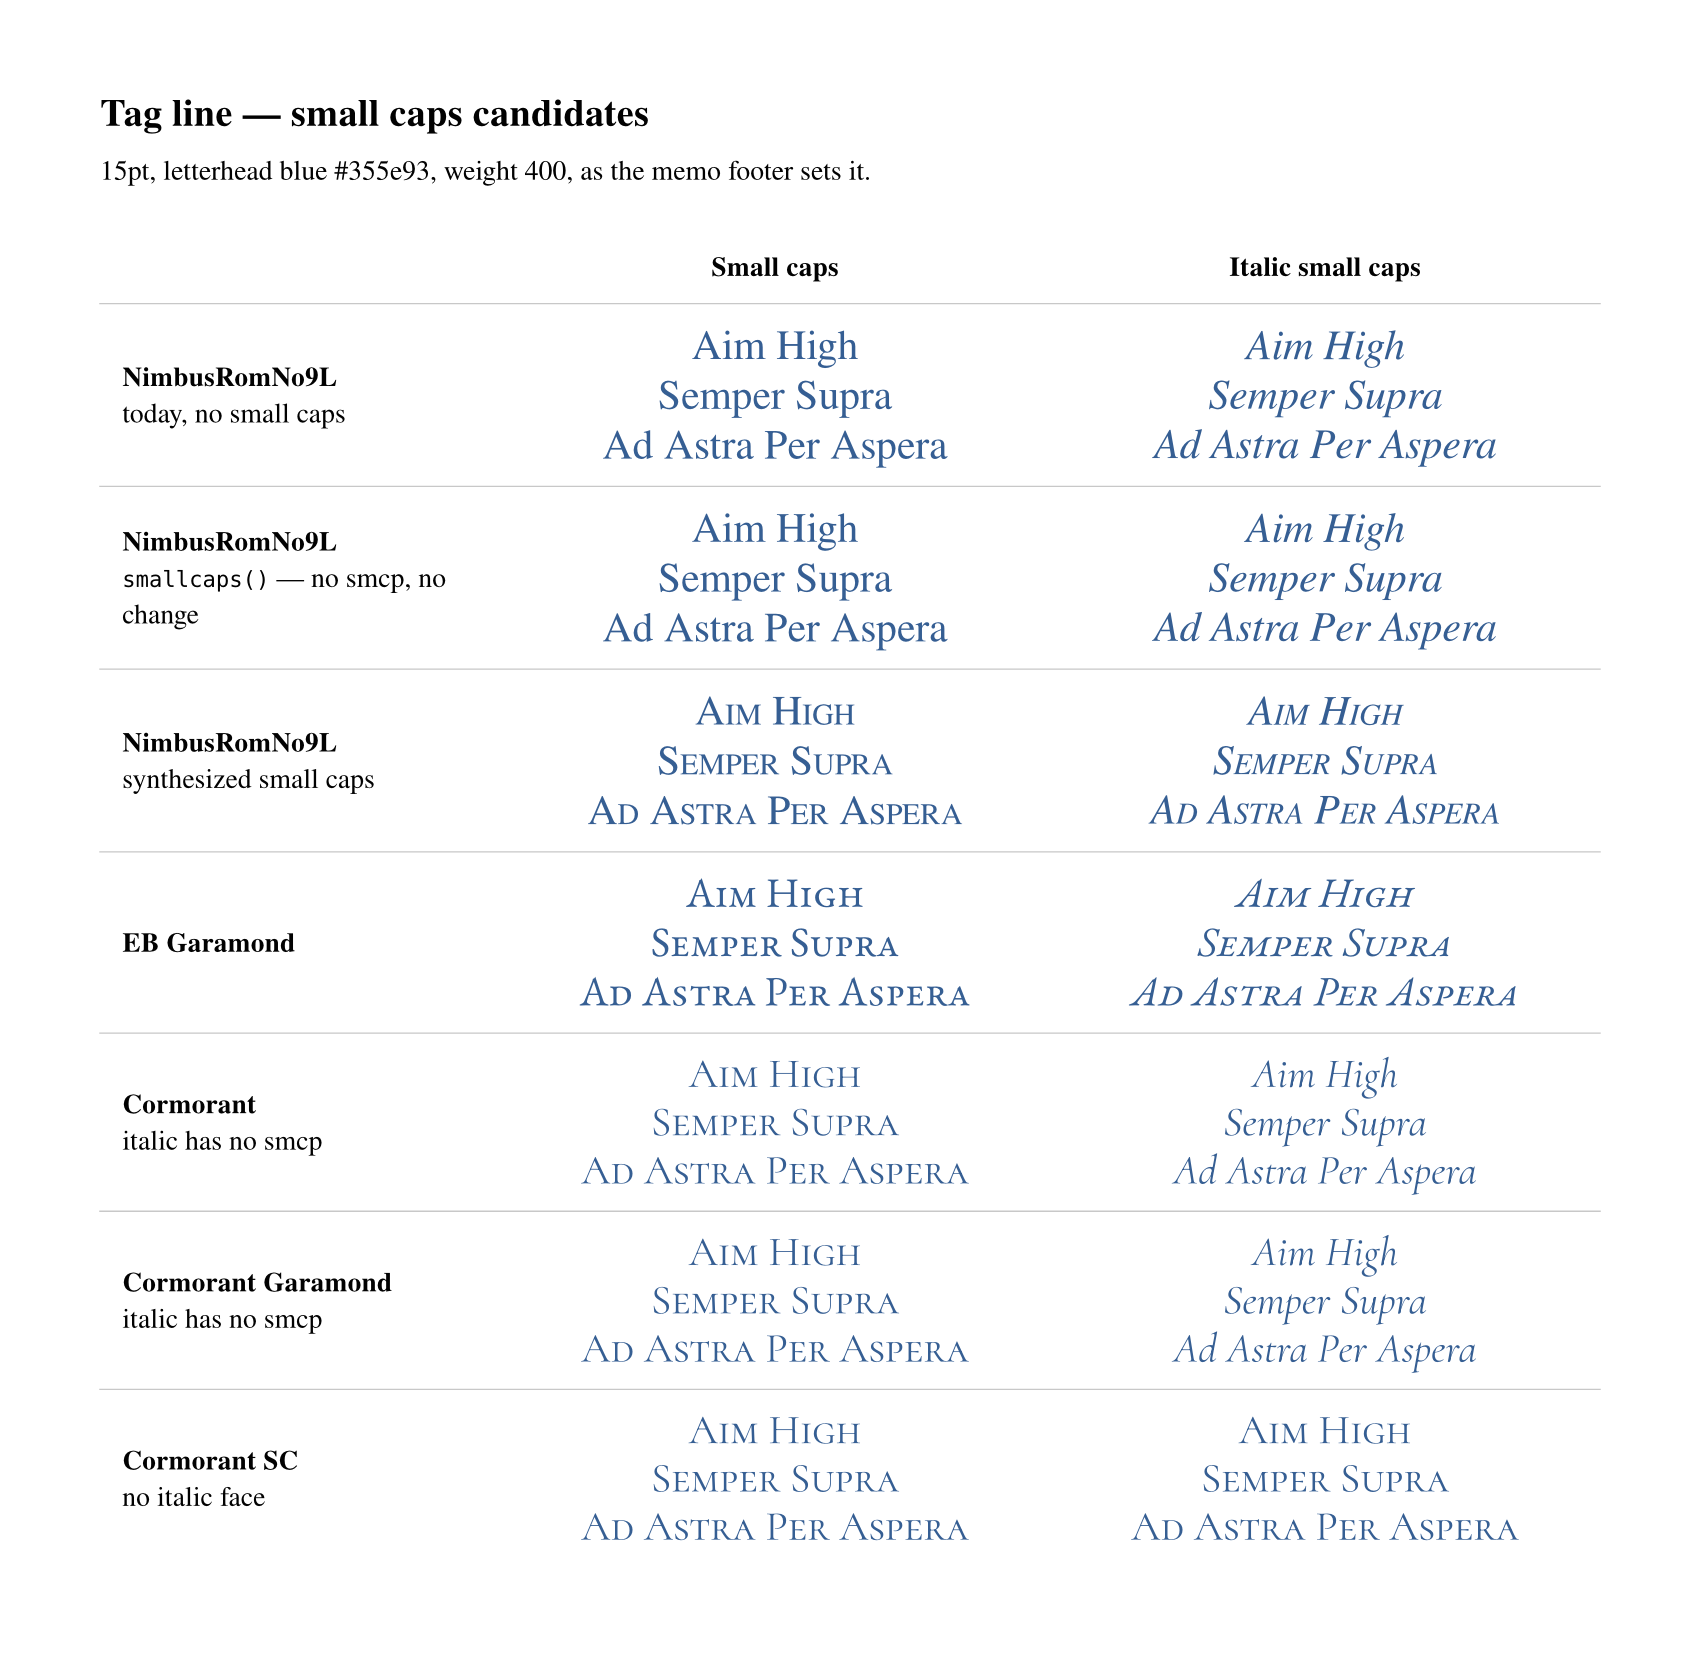
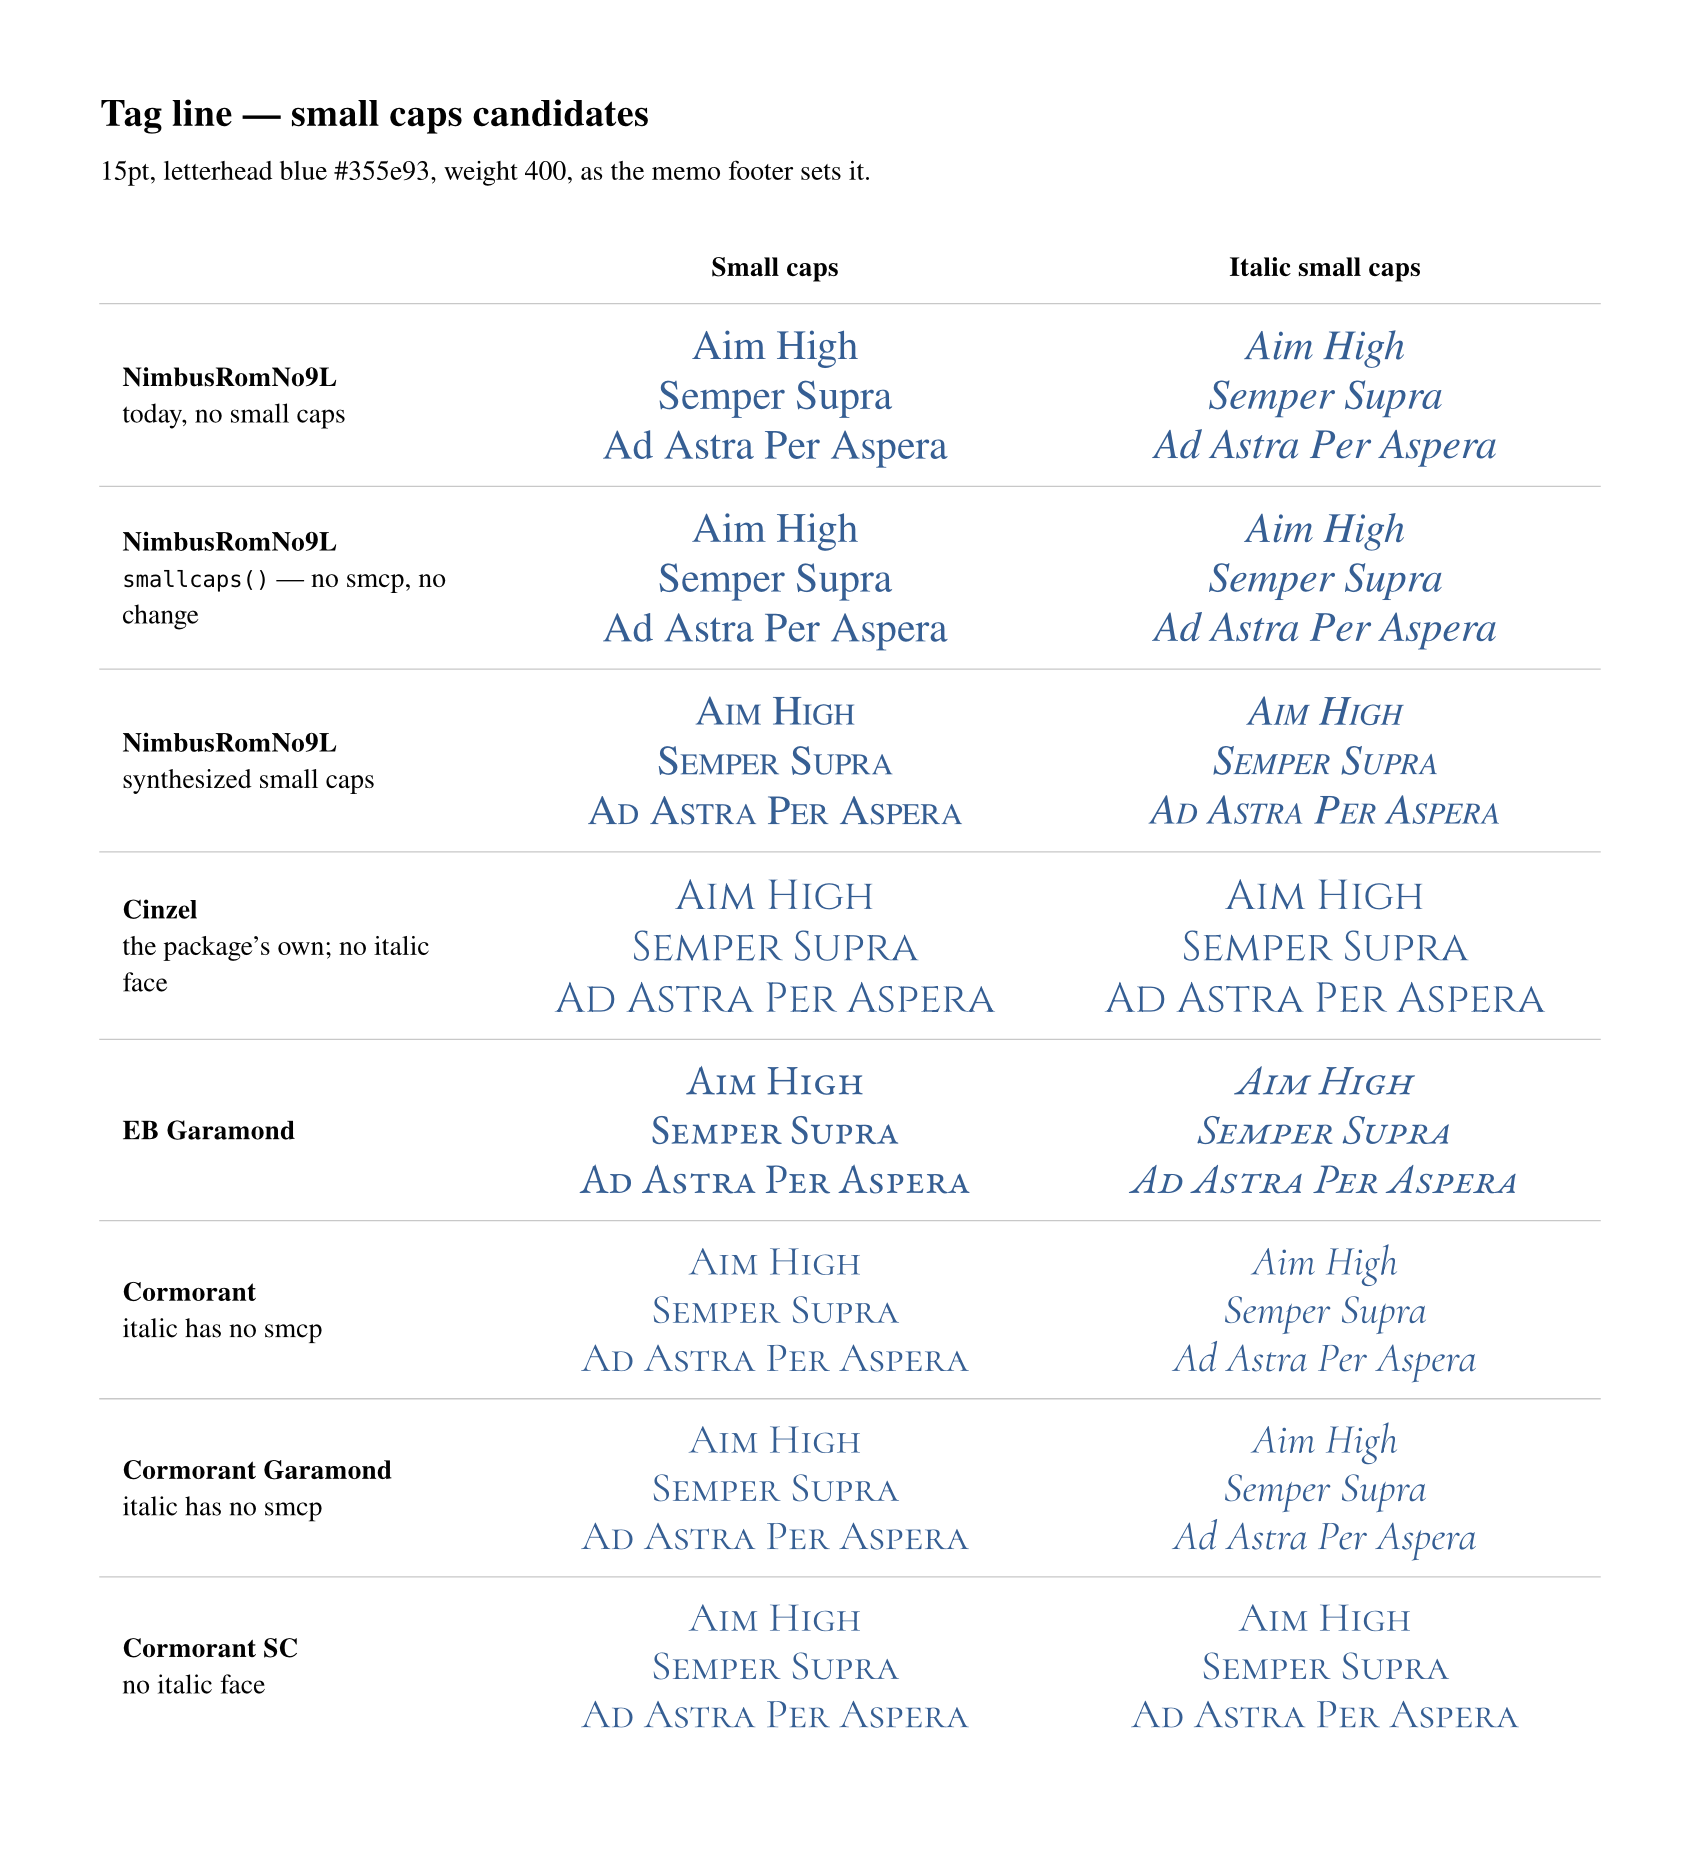
Add Cinzel to the tag line small-caps spike
Claude-Session: https://claude.ai/code/session_01PPbxL1qSbsvn6VshjbjFXg

diff --git a/design/usaf_memo/tag_line_fonts/render.py b/design/usaf_memo/tag_line_fonts/render.py
@@ -22,6 +22,7 @@ PPI = 200
 CANDIDATES = [
     ("NimbusRomNo9L", "none", "NimbusRomNo9L — today"),
     ("NimbusRomNo9L", "synth", "NimbusRomNo9L — synthesized SC"),
+    ("Cinzel", "native", "Cinzel"),
     ("EB Garamond", "smcp", "EB Garamond"),
     ("Cormorant", "smcp", "Cormorant"),
     ("Cormorant Garamond", "smcp", "Cormorant Garamond"),

diff --git a/design/README.md b/design/README.md
@@ -149,8 +149,8 @@ done
 ### Tag line typeface spike
 
 `usaf_memo/tag_line_fonts/` sets the footer tag line in small caps, upright and
-italic, in NimbusRomNo9L and four Google Fonts candidates: EB Garamond,
-Cormorant, Cormorant Garamond and Cormorant SC. It writes a specimen sheet, a
+italic, in NimbusRomNo9L, the package's own Cinzel, and four Google Fonts
+candidates: EB Garamond, Cormorant, Cormorant Garamond and Cormorant SC. It writes a specimen sheet, a
 full memo page per candidate, and a sheet of their footers to `shots/`.
 
 ```sh
@@ -161,8 +161,9 @@ TYPST=/path/to/typst python3 design/usaf_memo/tag_line_fonts/render.py
 
 Only EB Garamond has real italic small caps. Cormorant and Cormorant Garamond
 carry `smcp` in the roman face only, so their italic prints lowercase.
-Cormorant SC has no italic face, and Typst silently sets it upright. Its
-lowercase are small caps by default, and its `smcp` maps them back to
-lowercase, so it must not be wrapped in `smallcaps()`. NimbusRomNo9L has no
+Cinzel and Cormorant SC have no italic face, and Typst silently sets them
+upright. Both draw their lowercase as small caps by default. Cinzel has no
+`smcp`, and Cormorant SC's maps them back to lowercase, so neither is wrapped in
+`smallcaps()`. NimbusRomNo9L has no
 `smcp` at all, so `smallcaps()` leaves it unchanged. Its small caps are
 synthesized from capitals at 0.72em.
